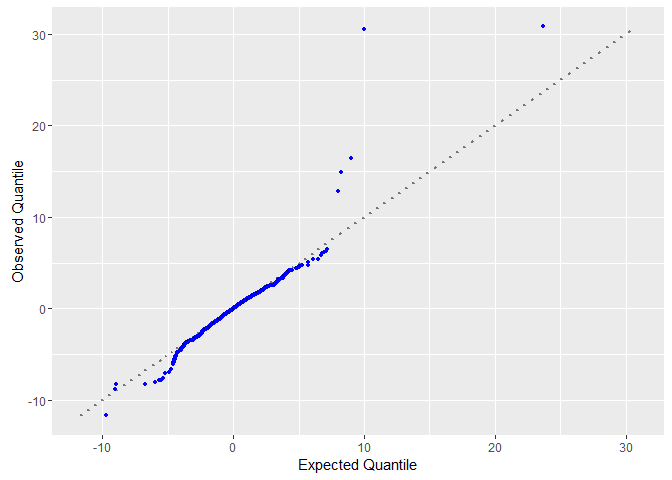
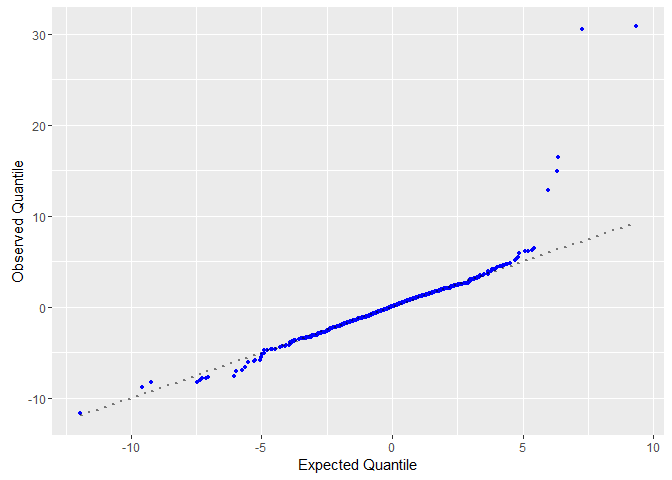
Further extended the multiple hypothesis testing.

diff --git a/Expression_data/quantitative_proteomics.md b/Expression_data/quantitative_proteomics.md
@@ -22,10 +22,12 @@ We are going to use the [ggplot2](http://ggplot2.org/) library. If you did not i
 library(ggplot2)
 ```
 
+    ## Warning: package 'ggplot2' was built under R version 3.2.5
+
 File import
 -----------
 
-The MaxQuant report files are tab separated text files that can readily be imported in R as data frame. A data frame allows the convenient manipulation of large tables. Please download the file [*roteinGroups\_5cell-line-mix.txt*](https://github.com/mvaudel/tutorials/blob/master/Expression_data/proteinGroups_5cell-line-mix.txt) to your project folder. It should appear in the *Files* panel.
+The MaxQuant report files are tab separated text files that can readily be imported in R as data frame. A data frame allows the convenient manipulation of large tables. Please download the file [*proteinGroups\_5cell-line-mix.txt*](https://github.com/mvaudel/tutorials/blob/master/Expression_data/proteinGroups_5cell-line-mix.txt) to your project folder. It should appear in the *Files* panel.
 
 ``` r
 proteinGroupsInput <- read.table(file = "proteinGroups_5cell-line-mix.txt", header = T, stringsAsFactors = F, sep = "\t")
@@ -113,12 +115,10 @@ The ratios can be plotted against each others for different cell lines in a scat
 cellLineX <- "mv411"
 cellLineY <- "ociAml3"
 scatterPlot <- ggplot()
-scatterPlot <- scatterPlot + geom_point(aes(x=proteinGroupsRatios[,cellLineX], y=proteinGroupsRatios[,cellLineY]), alpha=0.2, col="blue", size=1)
+scatterPlot <- scatterPlot + geom_point(aes(x=proteinGroupsRatios[,cellLineX], y=proteinGroupsRatios[,cellLineY]), alpha=0.2, col="blue", size=1, na.rm = T)
 scatterPlot <- scatterPlot + xlab(cellLineX) + ylab(cellLineY)
 plot(scatterPlot)
 ```
-
-    ## Warning: Removed 1578 rows containing missing values (geom_point).
 
 ![](quantitative_proteomics_files/figure-markdown_github/scatter_plot-1.png)
 
@@ -195,7 +195,7 @@ values <- c(nMissingDiagnosis, nMissingRelapse)
 
 missingValuesHistogramPlot <- ggplot()
 missingValuesHistogramPlot <- missingValuesHistogramPlot + geom_bar(aes(x=values, fill=categories), position = "dodge")
-missingValuesHistogramPlot <- missingValuesHistogramPlot + xlab("Number of missing values") + ylab("Density of proteins")
+missingValuesHistogramPlot <- missingValuesHistogramPlot + xlab("Number of missing values") + ylab("Number of proteins")
 plot(missingValuesHistogramPlot)
 ```
 
@@ -390,7 +390,7 @@ validProteinGroupsRatios$tTestStatistic <- ts
 QQ Plot
 -------
 
-We will now see whether the t-test statistics actually follow a t-distribution. This is achieved by drawing a quantile-quantile plot (qq-plot).
+We will now see whether the t-test statistics actually follow a t-distribution. This is achieved by drawing a quantile-quantile plot (qq-plot) where the quantile of the observed t-statistics is plotted against the theoretical quantiles of the Student t distribution.
 
 ``` r
 expectedQuantiles <- rt(length(validProteinGroupsRatios$tTestStatistic), df=5-2)
@@ -400,17 +400,106 @@ measuredQuantiles <- sort(measuredQuantiles)
 
 qqPlot <- ggplot()
 qqPlot <- qqPlot + geom_point(aes(x=expectedQuantiles, y=measuredQuantiles), size = 1, col = "blue")
-qqPlot <- qqPlot + geom_line(aes(x=measuredQuantiles, y=measuredQuantiles), size = 1, alpha = 0.5, linetype = "dotted")
+qqPlot <- qqPlot + geom_line(aes(x=expectedQuantiles, y=expectedQuantiles), size = 1, alpha = 0.5, linetype = "dotted")
 qqPlot <- qqPlot + xlab("Expected Quantile") + ylab("Observed Quantile")
 plot(qqPlot)
 ```
 
 ![](quantitative_proteomics_files/figure-markdown_github/qq_plot-1.png)
 
+It is possible to make the same plot for the observed and expected p-values, based on these quantiles. The red values show a 20% deviation from the expected p-values. Note that the measured p-values deviate from the diagonal, indicating that our dataset does not fully satisfy the hypotheses of the t-test.
+
+``` r
+expectedPValues <- pt(expectedQuantiles, lower.tail = expectedQuantiles < 0, df=5-2)
+expectedPValues <- sort(expectedPValues)
+expectedPValuesLog <- -log10(expectedPValues)
+measuredPValues <- validProteinGroupsRatios$tTestPValue
+measuredPValues <- sort(measuredPValues)
+measuredPValuesLog <- -log10(measuredPValues)
+
+limitLow <- 0.8 * expectedPValues
+limitLow <- -log10(limitLow)
+limitHigh <- 1.2 * expectedPValues
+limitHigh <- -log10(limitHigh)
+
+ppPlot <- ggplot()
+ppPlot <- ppPlot + geom_point(aes(x=expectedPValuesLog, y=measuredPValuesLog), size = 1, col = "blue")
+ppPlot <- ppPlot + geom_line(aes(x=expectedPValuesLog, y=expectedPValuesLog), size = 1, alpha = 0.5, linetype = "dotted")
+ppPlot <- ppPlot + geom_line(aes(x=expectedPValuesLog, y=limitLow), size = 1, alpha = 0.5, linetype = "dotted", col="red")
+ppPlot <- ppPlot + geom_line(aes(x=expectedPValuesLog, y=limitHigh), size = 1, alpha = 0.5, linetype = "dotted", col="red")
+ppPlot <- ppPlot + xlab("Expected p-value [-log10(p)]") + ylab("Observed p-value [-log10(p)]")
+plot(ppPlot)
+```
+
+![](quantitative_proteomics_files/figure-markdown_github/pp_plot-1.png)
+
+Multiple hypothesis testing
+---------------------------
+
+The more we run t-tests, the more chances we have to get a low p-value by chance. For example, when we run the test just one time, we are unlikely to find a p &lt; 1% by chance, whereas if we run the test 100 times, we are likely to find at least one p &lt; 1% by chance. This problem is called the multiple hypothesis testing. We are therefore going to evaluate the number of false discoveries FP by multiplying the probability of getting this p-value by chance by the number of times we run the test, i.e. the number of proteins: FP = n \* p. By dividing the number of false positives FP by the number of proteins, we obtain a false discovery rate, FDR, the share of proteins incorrectly marked as differentially expressed between the cell lines.
+
+In the following, we estimate the FDR at every p-value and plot it against the (log transformed) p-value. Note that the density of the t-distribution is used here instead of the p-value, it can be changed to use the p-value according to your preferences.
+
+``` r
+measuredPValues <- validProteinGroupsRatios$tTestPValue
+measuredPValues <- sort(measuredPValues)
+measuredPValuesLog <- -log10(measuredPValues)
+measuredStatistics <- validProteinGroupsRatios$tTestStatistic
+measuredP <- dt(measuredStatistics, df =5-2)
+measuredP <- sort(measuredP)
+nfp <- c()
+fdr <- c()
+nfpAtI <- 0
+for (i in 1:length(measuredP)) {
+  nfpAtI <- nfpAtI + measuredP[i]
+  nfp <- c(nfp, nfpAtI)
+  fdrAtI <- nfpAtI / length(measuredP)
+  fdr <- c(fdr, fdrAtI)
+}
+
+fdrPercent <- 100 * fdr
+
+qqPlot <- ggplot()
+qqPlot <- qqPlot + geom_point(aes(x=measuredPValuesLog, y=fdrPercent), size = 1, col = "blue")
+qqPlot <- qqPlot + xlab("Observed p-value [-log10(p)]") + ylab("FDR (%)")
+plot(qqPlot)
+```
+
+![](quantitative_proteomics_files/figure-markdown_github/fdr_plot-1.png)
+
+Such approaches were pioneered by Benjamini and Hochberg [(6)](#references). Since then many approaches were developed to improve the FDR caluclation.
+
 Volcano Plot
 ------------
 
-We will now plot the p-value against the fold change between the two conditions.
+The following code shows the histogram of fold changes between diagnostic and relapse for all proteins, as estimated in the t-test section by the difference between the median value of relapse cell lines compaired to the median value of diagnostic cell lines. The red line shows a normal distribution with mean and standard deviation calibrated on the median and the 34th percentiles around the median, respectively.
+
+``` r
+nBinsInOne <- 10
+binSize <- 1/nBinsInOne
+minFC <- floor(min(validProteinGroupsRatios$fc))
+maxFC <- ceiling(max(validProteinGroupsRatios$fc))
+
+quantilesFC <- quantile(validProteinGroupsRatios$fc, c(0.16, 0.5, 0.84), na.rm = T, names = F)
+medianFC <- quantilesFC[2]
+interQuantilesFC <- quantilesFC[3] - quantilesFC[1]
+xDistribution <- minFC + (binSize * (1:(nBinsInOne * (maxFC - minFC))))
+yDistribution <- dnorm(x = xDistribution, mean = medianFC, sd = interQuantilesFC/2)
+scale <- length(validProteinGroupsRatios$fc)/nBinsInOne
+yDistributionNorm <- scale * yDistribution
+
+fcHistogramPlot <- ggplot()
+fcHistogramPlot <- fcHistogramPlot + geom_histogram(aes(x=validProteinGroupsRatios$fc), col="blue", fill = "blue", alpha = 0.1, binwidth = binSize)
+fcHistogramPlot <- fcHistogramPlot + geom_line(aes(x=xDistribution, yDistributionNorm), col="red", alpha = 0.8)
+fcHistogramPlot <- fcHistogramPlot + xlab("Fold Change") + ylab("Number of proteins")
+plot(fcHistogramPlot)
+```
+
+![](quantitative_proteomics_files/figure-markdown_github/fc_histogram-1.png)
+
+With the hypothesis that false positives introduced by multiple hypothesis testing are likely to distribute according to the rest of the fold changes, independently of the p-value, we can use the fold change as independent weighting hypothesis for the FDR estimation.
+
+In the following, we plot the p-value against the fold change between the two conditions.
 
 ``` r
 volcanoPlot <- ggplot()
@@ -466,8 +555,9 @@ plot(pcaPlot)
 References
 ----------
 
-1.  [Vizcaino, J.A. et al., *ProteomeXchange provides globally coordinated proteomics data submission and dissemination*, Nature Biotechnology, 2014](https://www.ncbi.nlm.nih.gov/pubmed/24727771)
-2.  [Martens, L. et al., *PRIDE: the proteomics identifications database*, Proteomics, 2005](https://www.ncbi.nlm.nih.gov/pubmed/16041671)
-3.  [Geiger, T. et al., *Super-SILAC mix for quantitative proteomics of human tumor tissue*, Nature Methods, 2010](https://www.ncbi.nlm.nih.gov/pubmed/20364148)
+1.  [Vizcaino, J.A. *et al.*, *ProteomeXchange provides globally coordinated proteomics data submission and dissemination*, Nature Biotechnology, 2014](https://www.ncbi.nlm.nih.gov/pubmed/24727771)
+2.  [Martens, L. *et al.*, *PRIDE: the proteomics identifications database*, Proteomics, 2005](https://www.ncbi.nlm.nih.gov/pubmed/16041671)
+3.  [Geiger, T. *et al.*, *Super-SILAC mix for quantitative proteomics of human tumor tissue*, Nature Methods, 2010](https://www.ncbi.nlm.nih.gov/pubmed/20364148)
 4.  [Cox, J. and Mann, M, *MaxQuant enables high peptide identification rates, individualized p.p.b. range mass accuracies and proteome-wide protein quantification*, Nature Biotechnology, 2008](https://www.ncbi.nlm.nih.gov/pubmed/19029910)
-5.  [Aasebo, E. et al. Performance of super-SILAC based quantitative proteomics for comparison of different acute myeloid leukemia (AML) cell lines, Proteomics, 2014](https://www.ncbi.nlm.nih.gov/pubmed/25044641)
+5.  [Aasebo, E. *et al.*, *Performance of super-SILAC based quantitative proteomics for comparison of different acute myeloid leukemia (AML) cell lines*, Proteomics, 2014](https://www.ncbi.nlm.nih.gov/pubmed/25044641)
+6.  [Benjamini, Y. and Hochberg, Y., *Controlling the false discovery rate: a practical and powerful approach to multiple testing*, Journal of the Royal Statistical Society, 1995](http://www.math.tau.ac.il/~ybenja/MyPapers/benjamini_hochberg1995.pdf)
